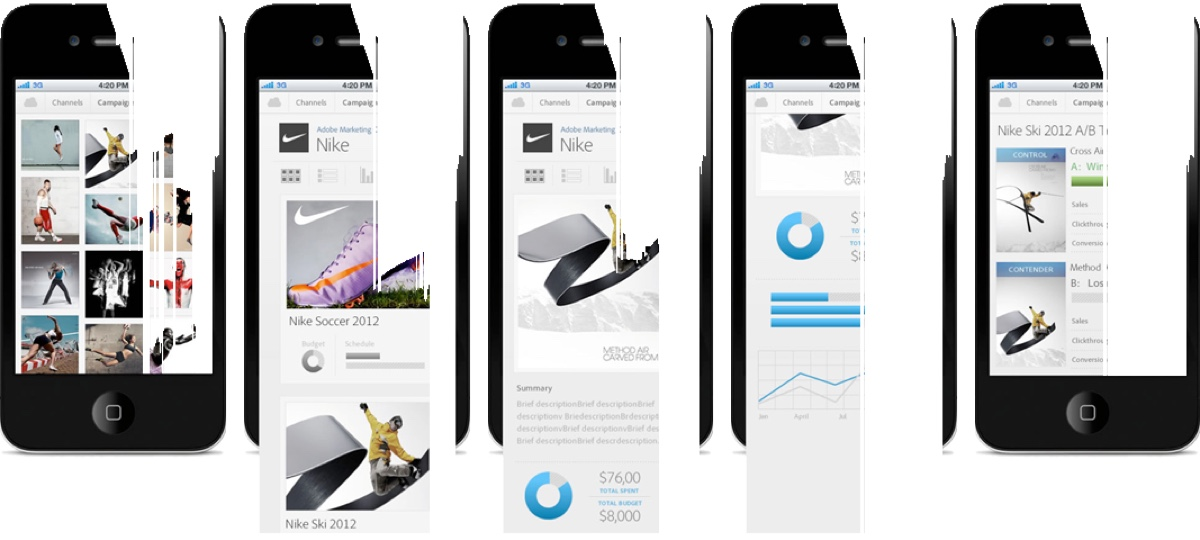
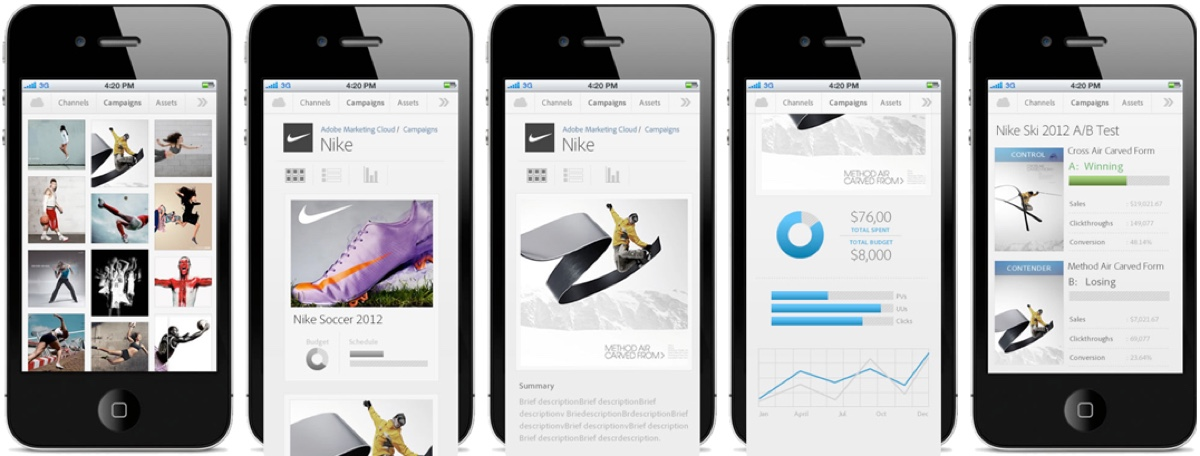
Marketing Cloud: swap the mobile tile for the cleaner, fully-framed screens
Replace amc-mobile.jpg with the newer mobile-screens export where the five
phones sit fully in frame (no top/bottom crop); bump ?v.

diff --git a/adobe-marketing-cloud.html b/adobe-marketing-cloud.html
@@ -271,7 +271,7 @@
     </div>
 
     <div class="feat-mobile">
-      <div class="m-tile"><img src="assets/img/amc-mobile.jpg?v=1" alt="Adobe Marketing Cloud — the companion mobile app: campaigns, assets, and performance on the phone" /></div>
+      <div class="m-tile"><img src="assets/img/amc-mobile.jpg?v=2" alt="Adobe Marketing Cloud — the companion mobile app: campaigns, assets, and performance on the phone" /></div>
       <p class="feat-label">Mobile — Marketing Cloud on the go</p>
     </div>
 
